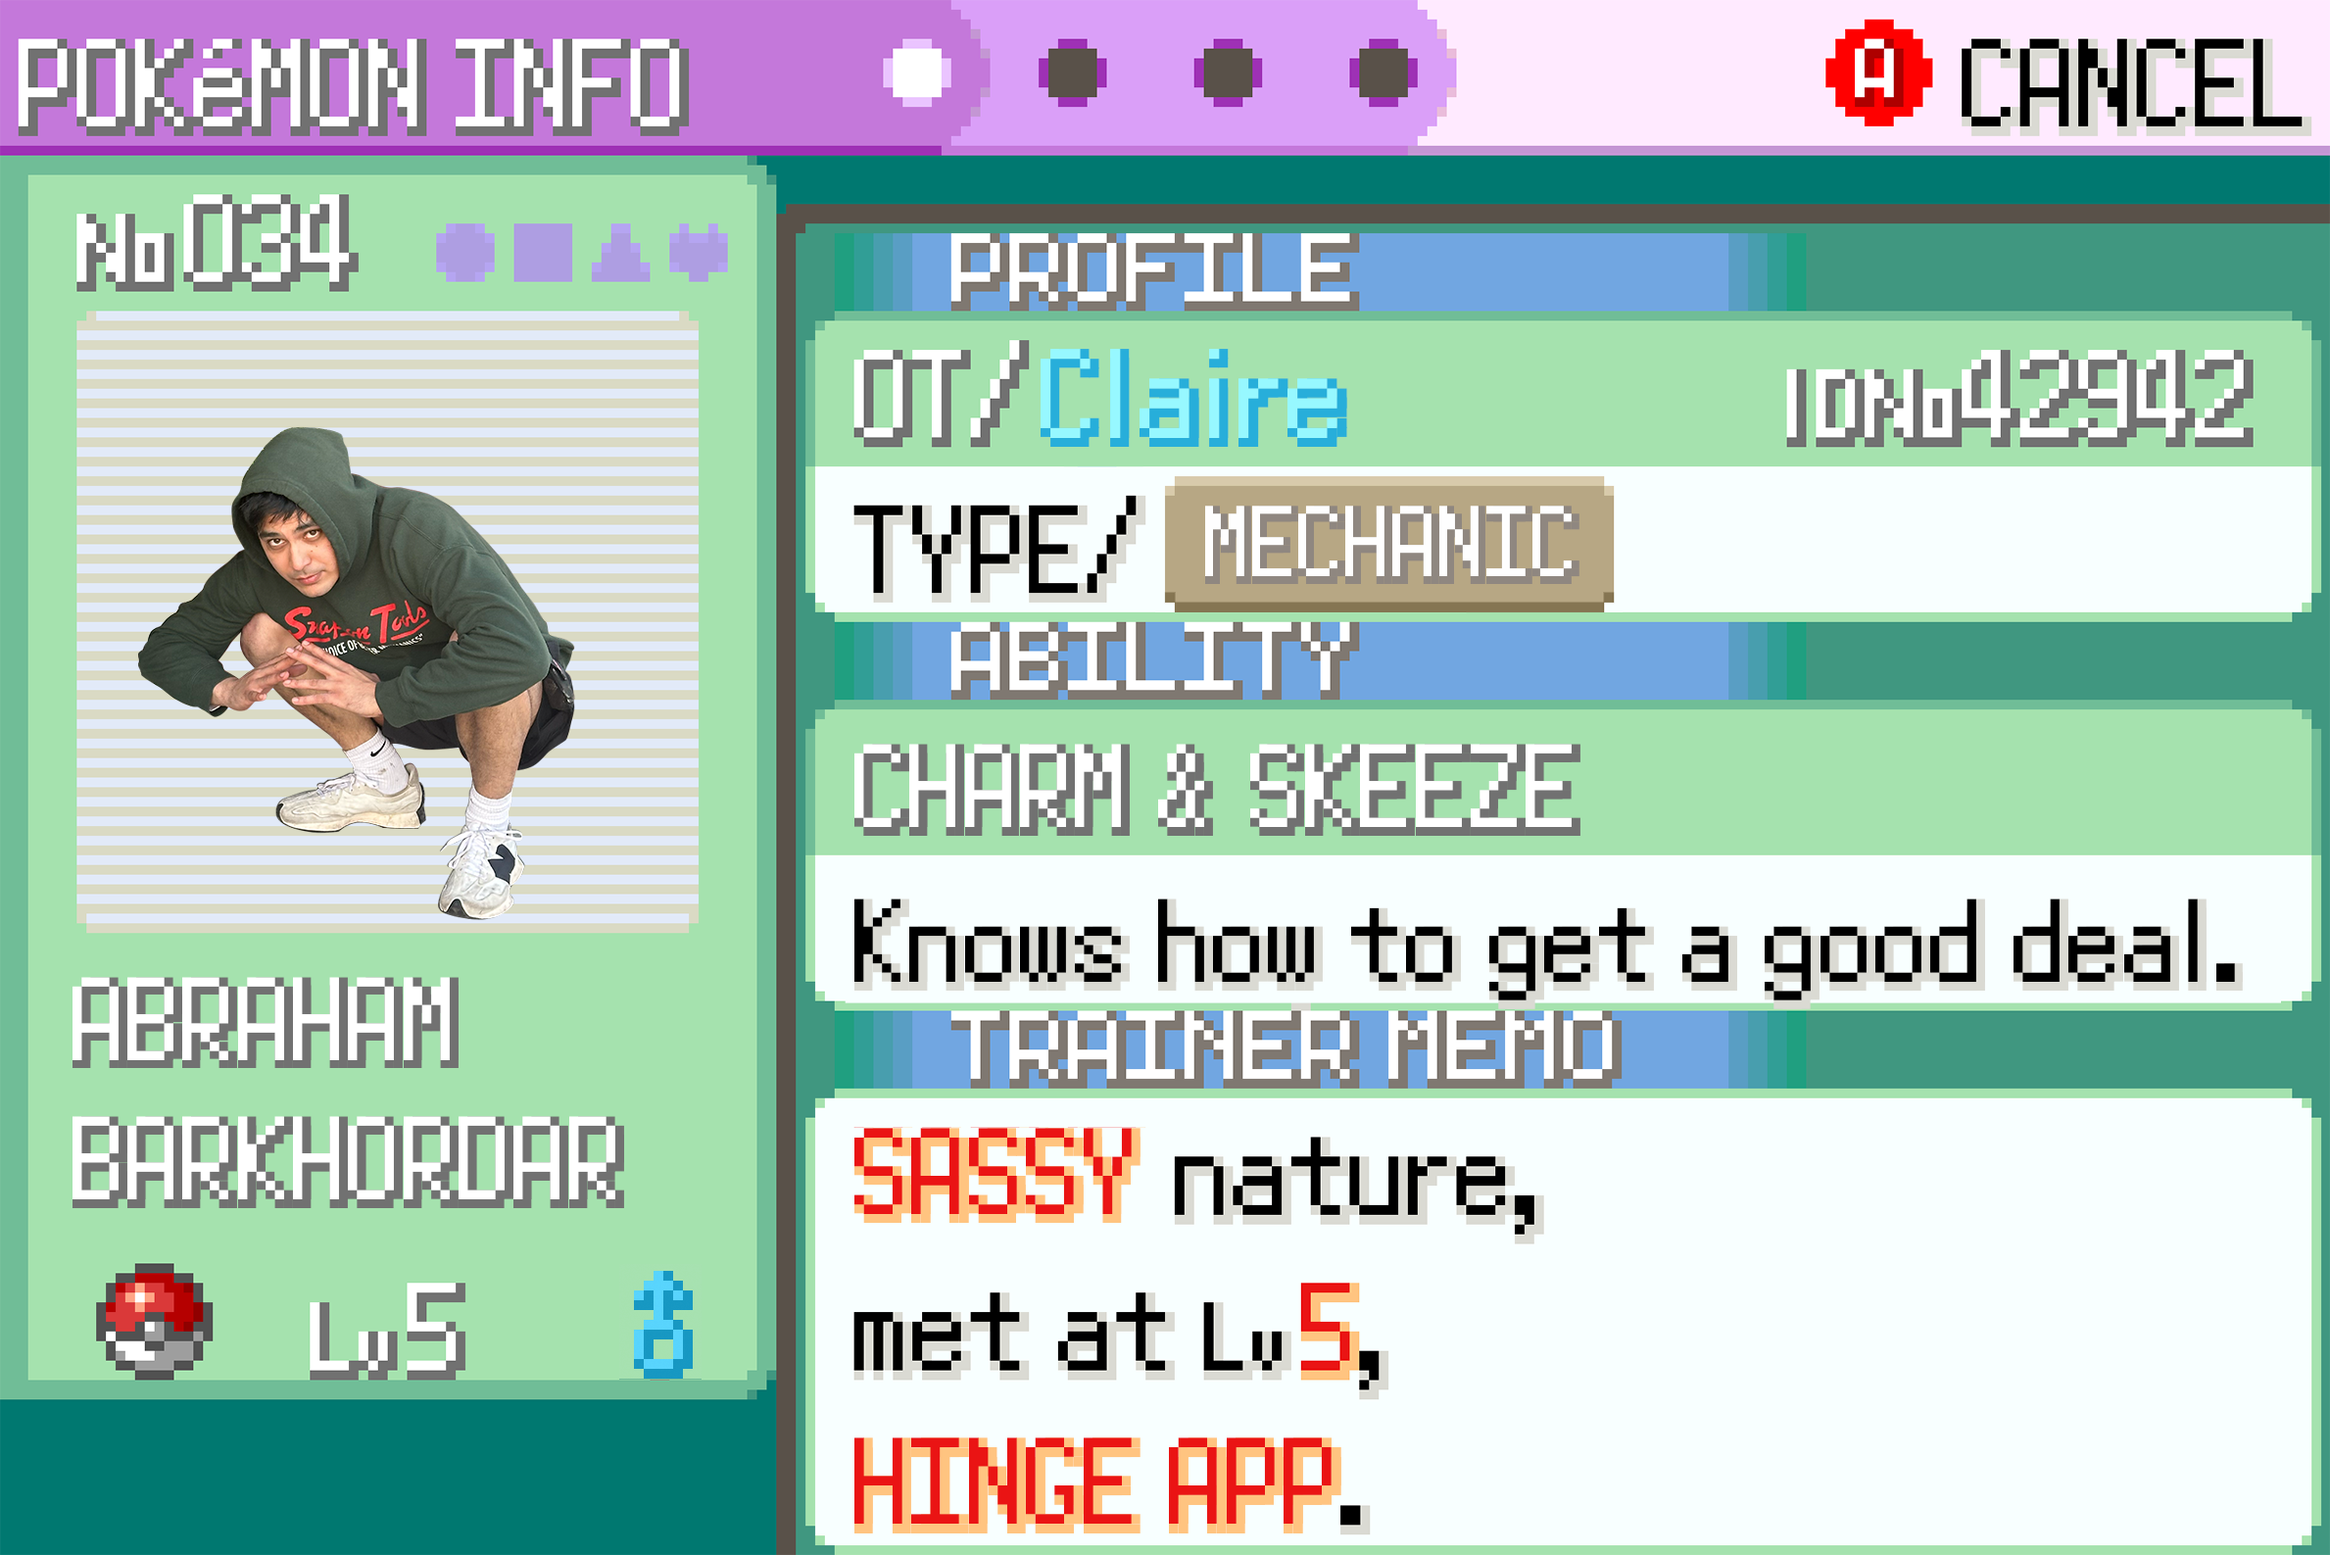
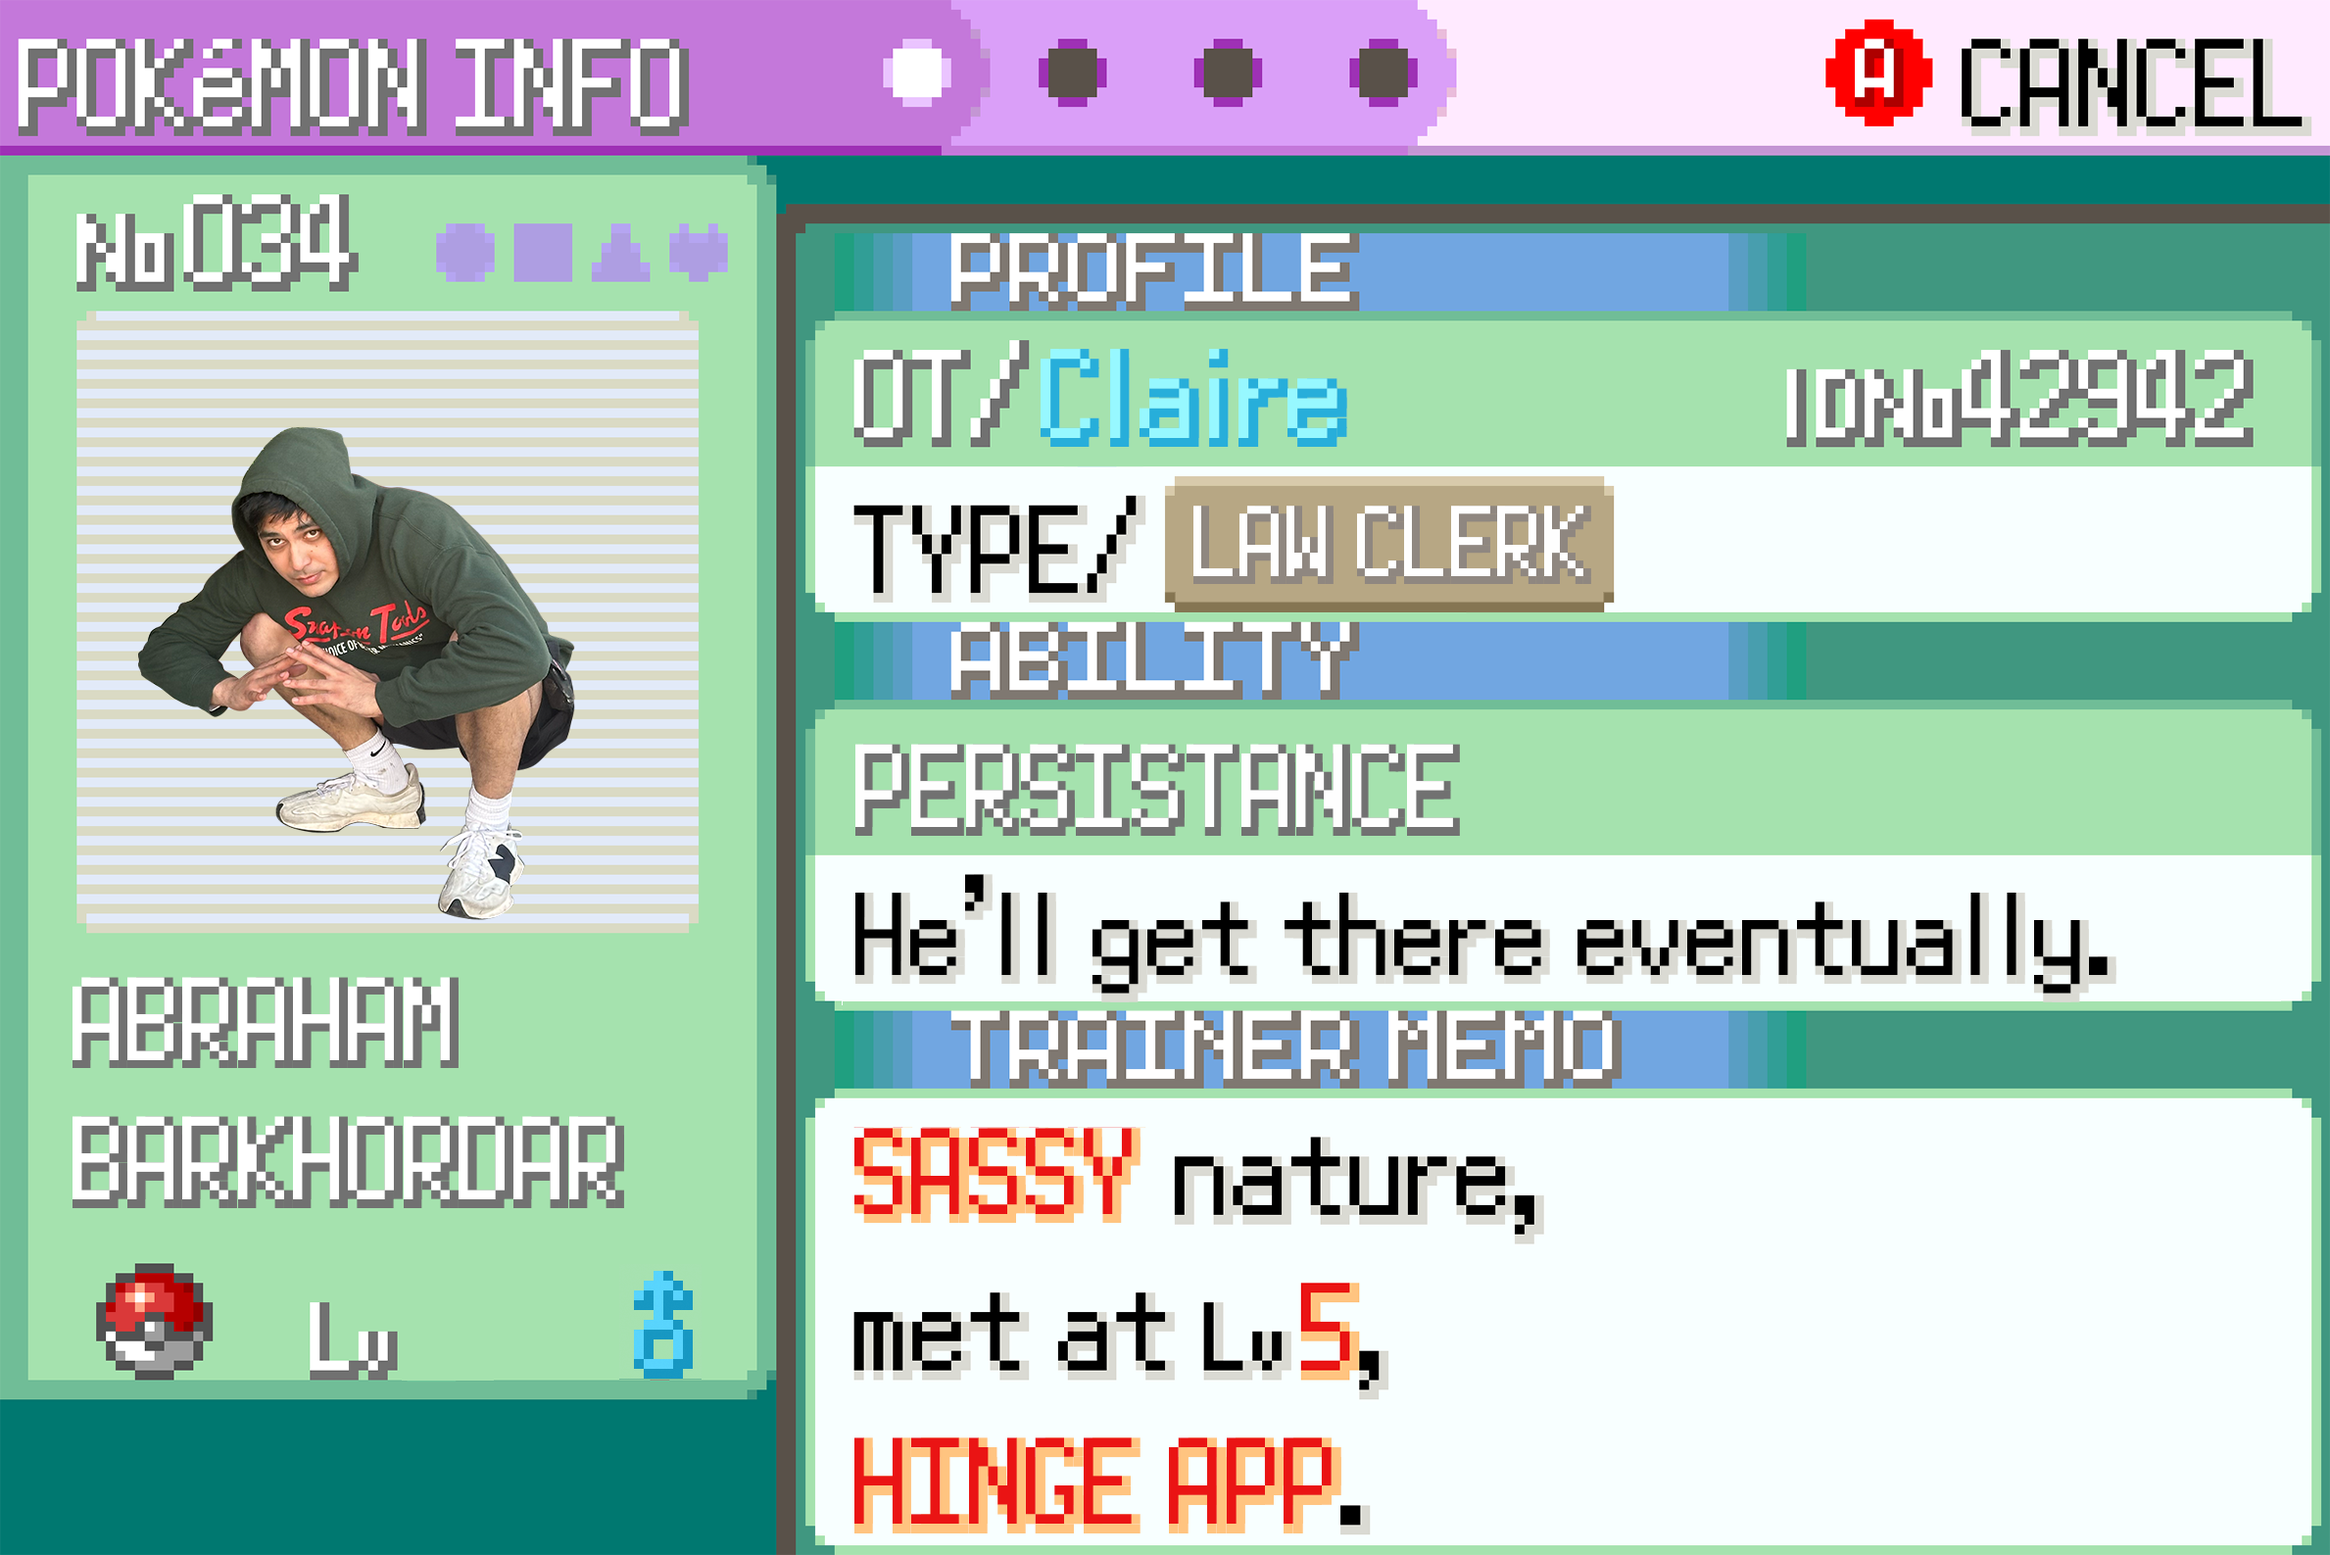
updating bag and pookiemon screen

Changed region(s): [[0.3734, 0.4631, 0.9647, 0.6484], [0.4979, 0.3088, 0.6846, 0.3705], [0.1556, 0.8028, 0.2178, 0.8954]]

diff --git a/fight.js b/fight.js
@@ -1,11 +1,11 @@
-import { drawYellowTextWithShadow, drawBlackTextWithShadow, drawTextWithShadow, typeWriter } from "./text.js";
+import { drawYellowTextWithShadow, drawBlackTextWithShadow, drawTextWithShadow, drawWhiteTextWithGreyShadow, typeWriter } from "./text.js";
 import { Animation } from "./animations.js";
 
 const cursorPositions = [
     [],
     [
-        [[1279, 1230], [1279, 1393]],
-        [[1879, 1230], [1879, 1393]]
+        [[1279, 1230], [1879, 1230]],
+        [[1279, 1393], [1879, 1393]]
     ],
     [
         [[77, 1220], [870, 1220]],
@@ -315,7 +315,9 @@ export function drawFight(canvasSize, multiplier, font, fight, typeWriterProps) 
         let displayText = typeWriter(text[0], typeWriterProps);
         drawTextWithShadow(displayText, 150 * multiplier, 1323 * multiplier, 1278 * multiplier);
     } else if (fight.fightScreen === 10) {
+        // pookiemon
         image(fight.pookiemonInfo, 0, 0, canvasSize.width, canvasSize.height);
+        drawWhiteTextWithGreyShadow(fight.player.level, 420 * multiplier, 1400 * multiplier);
     } else if (fight.fightScreen === 11) {
         // bag
         drawBag(fight, canvasSize, multiplier);
@@ -371,7 +373,6 @@ export function fightArrowKeyPressed(keyCode, fight, props) {
     if (keyCode === RIGHT_ARROW) {
         if (fight.fightScreen !== 2 || fight.moves[fight.cursorIndex[0]][1]) {
             fight.cursorIndex[1] = 1;
-            console.log(fight.cursorIndex);
         }
     }
 }
@@ -401,9 +402,9 @@ export function fightAKeyPressed(keyCode, fight, props) {
                 if (fight.cursorIndex[0] === 0 && fight.cursorIndex[1] === 0) {
                     fight.fightScreen = 2;
                 } else if (fight.cursorIndex[0] === 0 && fight.cursorIndex[1] === 1) {
-                    fight.fightScreen = 10;
-                } else if (fight.cursorIndex[0] === 1 && fight.cursorIndex[1] === 0) {
                     fight.fightScreen = 11;
+                } else if (fight.cursorIndex[0] === 1 && fight.cursorIndex[1] === 0) {
+                    fight.fightScreen = 10;
                 } else if (fight.cursorIndex[0] === 1 && fight.cursorIndex[1] === 1) {
                     fight.fightScreen = 12;
                 }
@@ -539,6 +540,16 @@ export function fightSKeyPressed(keyCode, fight) {
 
 const bagItems = [
     {
+        name: "Harvard Law Degree",
+        quantity: 1,
+        description: "95.83% of graduates pass the CA Bar on the first try"
+    },
+    {
+        name: "Time off work",
+        quantity: "30 days",
+        description: "Thanks Mike!"
+    },
+    {
         name: "Sunglasses",
         quantity: 1,
         description: "Ray Bans, of course."
@@ -551,7 +562,7 @@ const bagItems = [
     {
         name: "Adderall",
         quantity: "1800mg",
-        description: "To treat the raging ADHD. Or maybe the Narcolepsy."
+        description: "Performance enhacing drugs"
     },
     {
         name: "Air Tag",
@@ -559,23 +570,13 @@ const bagItems = [
         description: "How else are you supposed to know where your shit is?"
     },
     {
-        name: "Car Play",
-        quantity: 1,
-        description: "A non-negotiable."
-    },
-    {
-        name: "Loose Screws",
-        quantity: 24,
-        description: "Real mechanic shit."
-    },
-    {
-        name: "Oil Stains",
-        quantity: 57,
-        description: "It's part of the blue collar cosplay."
-    },
-    {
         name: "Fish",
         quantity: 13,
         description: "Awww Babe, you love fish!"
-    }
+    },
+    {
+        name: "PIP",
+        quantity: 1,
+        description: "It stands for Paid Interview Period."
+    },
 ];

diff --git a/text.js b/text.js
@@ -7,6 +7,15 @@ export function drawTextWithShadow(textContent, x, y, maxWidth) {
     text(textContent, x, y, maxWidth);
 }
 
+export function drawWhiteTextWithGreyShadow(textContent, x, y, maxWidth) {
+    fill(113, 113, 113);
+    text(textContent, x + 3, y + 3, maxWidth);
+    text(textContent, x, y + 3, maxWidth);
+    text(textContent, x + 3, y, maxWidth);
+    fill(255);
+    text(textContent, x, y, maxWidth);
+}
+
 export function drawBlackTextWithShadow(textContent, color, x, y, maxWidth) {
     fill(224, 220, 219);
     if (color === 1) {
